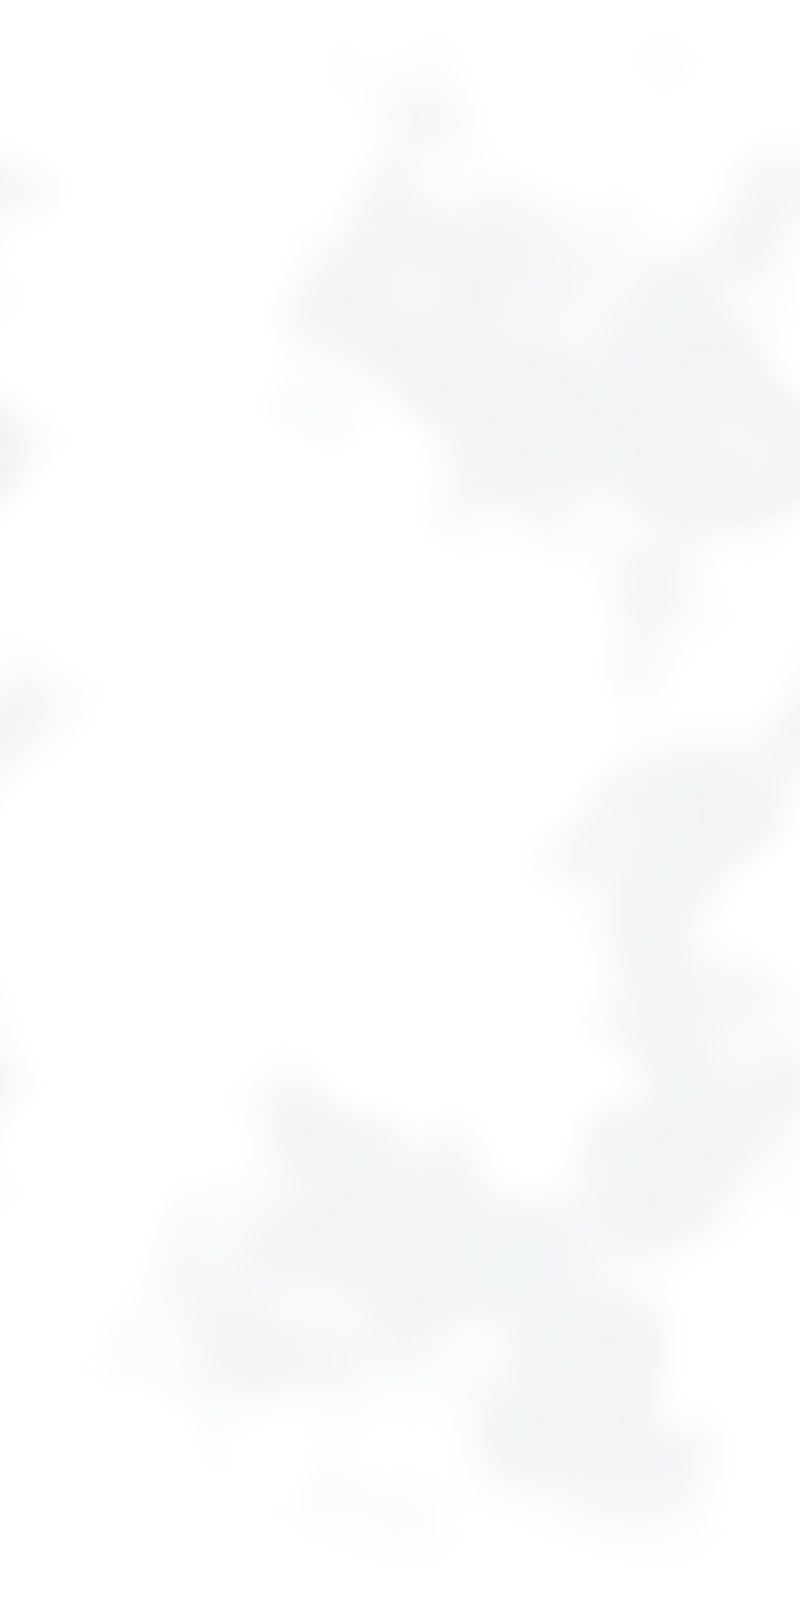
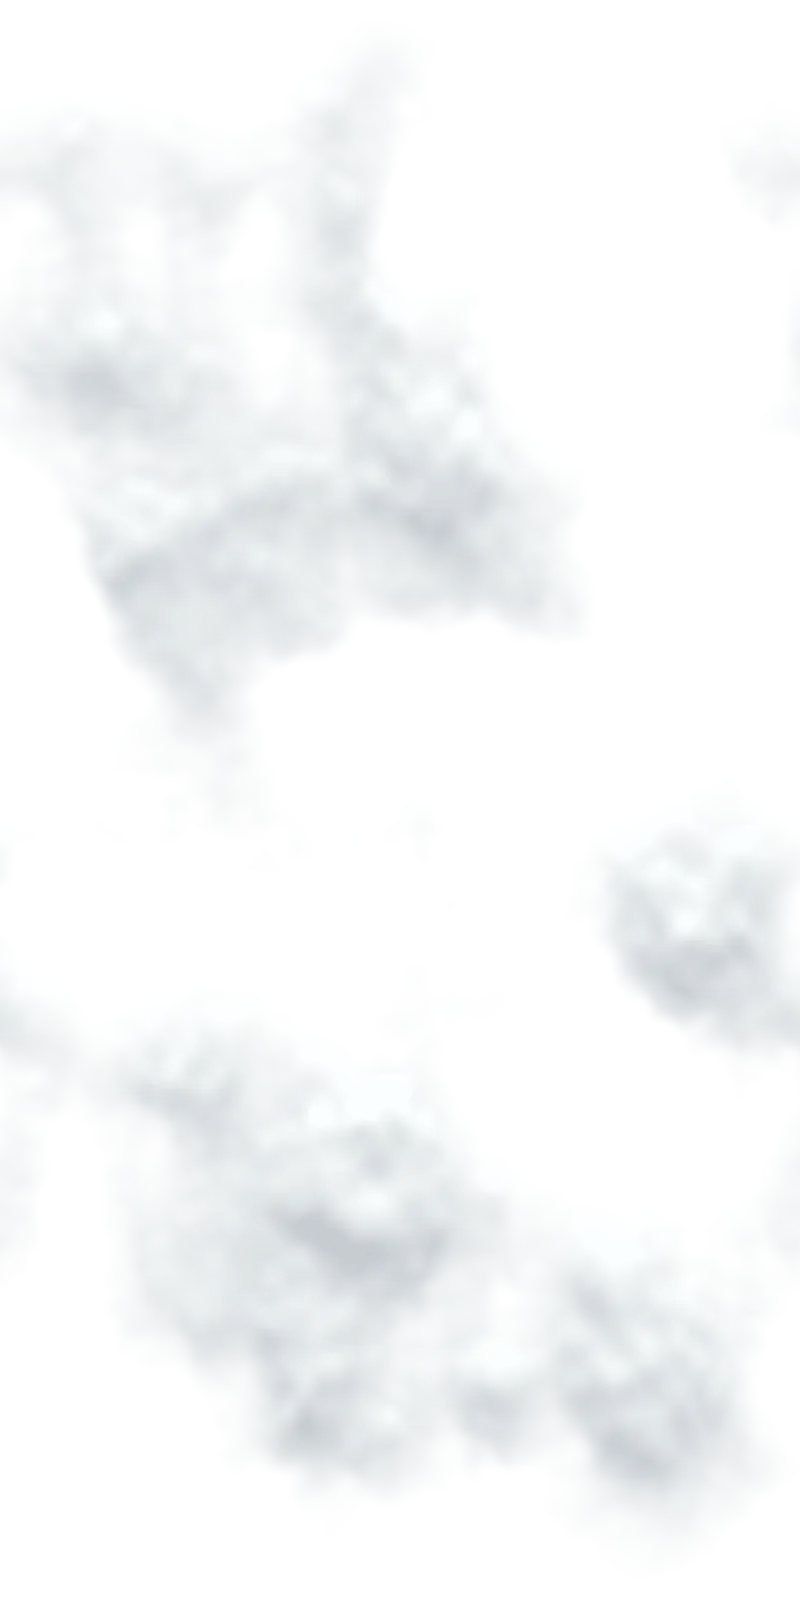
Clouds in depth: natural puffs, visible wisps, Variety goes behind the clouds
The puffs behind the texts are soft noise shapes again (another seed: no
boomerang); the wisps in front are whiter and stronger, so they show over
the grey bank while staying see-through. The texts no longer move on and
fade at the end: they stay in the centre, and the Variety quote goes
behind the cumulus near the bank's bottom as it rises (a mask traced
along its billows, following the bank's drift).

diff --git a/public/main.js b/public/main.js
@@ -9,11 +9,8 @@ const textTrack = document.querySelector(".cloud-text-track");
 const cloudText = document.querySelector(".cloud-text");
 const logoHold = document.querySelector(".intro-logo-hold");
 const quotes = [...cloudText.querySelectorAll(".quote")];
-const TEXT_HOLD = 1.2; // screens of scrolling the logline and quotes stay in the centre
-// Where (in screens of scrolling into the pause) each text gives way to the next, and
-// where the last one fades as it leaves, so both press quotes get the same time.
+// Where (in screens of scrolling into the pause) each text gives way to the next.
 const TEXT_SWAPS = [0.3, 0.85];
-const TEXT_OUT = 1.3;
 const FADE = 0.14;
 const film = document.querySelector(".film");
 const stage = film.querySelector(".film-stage");
@@ -56,34 +53,50 @@ function update() {
   const covered = Math.min(1, window.scrollY / (0.94 * window.innerHeight));
   logo.style.transform = `scale(${1 - 0.1 * covered})`;
 
-  // Text: rides up with the clouds, slows to a stop in the centre of the screen, holds,
-  // then speeds up again and moves on. u is how far the track has scrolled past the
-  // top of the screen; the text stays back by an amount that grows and shrinks
-  // smoothly (no sudden stop or start).
+  // Text: rides up with the clouds, slows to a stop in the centre of the screen and
+  // stays there: the bank keeps rising, and the last quote goes behind the cumulus near
+  // its bottom. u is how far the track has scrolled past the top of the screen; the
+  // text stays back by an amount that shrinks smoothly (no sudden stop).
   // The text is fixed to the screen and only this moves it (no fight with the page's
   // own scrolling, so it doesn't tremble).
+  following = false;
   const vh = window.innerHeight;
   const u = window.scrollY - trackTop;
-  const soft = 0.12 * vh; // how gently it slows down and speeds up
+  const soft = 0.12 * vh; // how gently it slows down
   const smoothStep = (x) => (x > 20 * soft ? x : soft * Math.log1p(Math.exp(x / soft))); // smooth max(0, x)
-  const y = -(smoothStep(u - TEXT_HOLD * vh) - smoothStep(-u));
-  cloudText.style.visibility = Math.abs(y) < vh ? "visible" : "hidden";
+  const y = smoothStep(-u);
   cloudText.style.transform = `translate3d(0, ${y.toFixed(1)}px, 0)`;
 
-  // Each text fades out as the next fades in; the last fades out as it moves away.
+  // Each text fades out as the next fades in; the last stays.
   const at = (screens) => ease(range(u / vh, screens - FADE / 2, screens + FADE / 2));
   quotes.forEach((q, i) => {
     const fadeIn = i === 0 ? 1 : at(TEXT_SWAPS[i - 1]);
-    const fadeOut = i < TEXT_SWAPS.length ? at(TEXT_SWAPS[i]) : ease(range(u / vh, TEXT_OUT, TEXT_OUT + 0.15));
+    const fadeOut = i < TEXT_SWAPS.length ? at(TEXT_SWAPS[i]) : 0;
     q.style.opacity = fadeIn * (1 - fadeOut);
     q.style.transform = `translateY(${12 * (1 - fadeIn) - 12 * fadeOut}px)`;
   });
+
+  // ...behind those clouds: masked with clouds-below-mask.webp (opaque down to the
+  // cumulus near the bank's bottom), kept on the bank's place and its drift, once the
+  // bank's top is above the text; hidden once the cumulus has covered the last quote.
+  const bank = introClouds.getBoundingClientRect();
+  const textBox = cloudText.getBoundingClientRect();
+  const lastBox = quotes[quotes.length - 1].getBoundingClientRect();
+  const behind = bank.top < textBox.top;
+  cloudText.style.visibility = y < vh && bank.top + 0.92 * bank.height > lastBox.top ? "visible" : "hidden";
+  cloudText.style.webkitMaskImage = cloudText.style.maskImage = behind ? "url(clouds-below-mask.webp)" : "";
+  if (behind) {
+    cloudText.style.webkitMaskRepeat = cloudText.style.maskRepeat = "repeat-x";
+    cloudText.style.webkitMaskSize = cloudText.style.maskSize = `auto ${bank.height.toFixed(1)}px`;
+    cloudText.style.webkitMaskPosition = cloudText.style.maskPosition =
+      `${(cloudTile.getBoundingClientRect().left - textBox.left).toFixed(1)}px ${(bank.top - textBox.top).toFixed(1)}px`;
+    if (bank.top + 0.92 * bank.height > textBox.top && bank.top + 0.8 * bank.height < textBox.bottom) following = true;
+  }
 
   // The sky behind the logo moves up, at a third of the scrolling (it's far away).
   introLogo.style.setProperty("--sky-y", `${(-0.35 * Math.min(window.scrollY, logoHold.offsetHeight)).toFixed(1)}px`);
 
   // The nearer clouds.
-  const bank = introClouds.getBoundingClientRect();
   const edgeAtMiddle = 0.5 * vh - 0.12 * bank.height;
   for (const [layer, speed] of cloudLayers) {
     const ly = speed * (bank.top - edgeAtMiddle);
@@ -95,7 +108,6 @@ function update() {
   // where the bank has any cloud, even haze), kept on the bank's place and its drift,
   // and in full above the bank's top. Followed frame by frame while the bank's edge is
   // over them (the bank keeps drifting when the page doesn't scroll).
-  following = false;
   for (const el of [logo, watch]) {
     const r = el.getBoundingClientRect();
     const k = el.offsetWidth ? r.width / el.offsetWidth : 1; // the logo's own shrinking

diff --git a/tools/cloud_depth.py b/tools/cloud_depth.py
@@ -1,16 +1,19 @@
 """Makes the extra cloud layers of the homepage. Needs numpy and Pillow.
 
-    python tools/cloud_depth.py public/clouds.webp <out dir>
+    python tools/cloud_depth.py public/clouds.webp <out dir> 5   (5: the seed in use)
     cwebp -q 70 -alpha_q 80 -resize 900 0 <out dir>/clouds-mid.png -o public/clouds-mid.webp
     cwebp -q 70 -alpha_q 80 <out dir>/clouds-veil.png -o public/clouds-veil.webp
     cwebp -lossless <out dir>/clouds-mask.png -o public/clouds-mask.webp
+    cwebp -lossless <out dir>/clouds-below-mask.png -o public/clouds-below-mask.webp
 
 - clouds-mid: soft puffs with the bank's own texture, lit from above (lighter tops,
   darker undersides), scattered down a tall strip; behind the texts, in front of the bank
-- clouds-veil: large, very thin wisps; in front of the texts
+- clouds-veil: large see-through wisps, lit from above; in front of the texts
 - clouds-mask: where the bank (clouds.webp) has any cloud, even thin haze, this is
   transparent; the logo is masked with it, so it goes behind the clouds instead of
   showing through them
+- clouds-below-mask: opaque down to the cumulus near the bottom of the bank; the last
+  quote is masked with it, so it goes behind those clouds as they rise
 Noise that wraps at the sides (made in frequency space), so the layers can drift
 sideways without a seam.
 """
@@ -19,7 +22,7 @@ import numpy as np
 from PIL import Image
 
 src, out = sys.argv[1], sys.argv[2]
-rng = np.random.default_rng(11)
+rng = np.random.default_rng(int(sys.argv[3]) if len(sys.argv) > 3 else 5)
 
 
 def smooth(a, b, x):
@@ -50,24 +53,26 @@ def texture(h, w):
     return t.mean(2, keepdims=True)
 
 
-# Puffs behind the texts.
+# Puffs behind the texts: thresholded noise, soft, lit from above.
 h, w = 2400, 1200
 y = np.linspace(0, 1, h)[:, None]
 n = noise(h, w, [(300, 0.7), (115, 0.24), (40, 0.06)])
 cover = noise(h, 1, [(300, 1.0)])
-thr = 1 - (0.18 + 0.32 * cover)
+thr = 1 - (0.18 + 0.3 * cover)
 a = smooth(thr - 0.07, thr + 0.12, n) * smooth(0.0, 0.06, y) * (1 - smooth(0.92, 1.0, y))
 lit = np.clip(0.5 + 4.5 * (n - np.roll(n, 40, axis=0)) + 0.8 * (n - thr), 0, 1)[..., None]
 rgb = texture(h, w) * (0.6 + 0.8 * lit) * np.array([0.95, 0.99, 1.02])
 Image.fromarray(np.dstack([rgb, a[..., None] * 225]).clip(0, 255).astype(np.uint8)).save(f"{out}/clouds-mid.png")
 
-# Thin wisps in front of the texts: large, soft, faint.
+# Wisps in front of the texts: large and soft, see-through but clearly there, light on
+# top and greyer underneath.
 h, w = 1600, 800
 y = np.linspace(0, 1, h)[:, None]
-n = noise(h, w, [(160, 0.75), (60, 0.25)])
-a = smooth(0.45, 0.8, n) * smooth(0.0, 0.08, y) * (1 - smooth(0.9, 1.0, y))
-rgb = np.full((h, w, 3), [226, 231, 234], np.float32) * (0.85 + 0.15 * n[..., None])
-Image.fromarray(np.dstack([rgb, a[..., None] * 90]).clip(0, 255).astype(np.uint8)).save(f"{out}/clouds-veil.png")
+n = noise(h, w, [(150, 0.7), (55, 0.22), (18, 0.08)])
+a = smooth(0.5, 0.78, n) * smooth(0.0, 0.08, y) * (1 - smooth(0.9, 1.0, y))
+lit = np.clip(0.5 + 4.0 * (n - np.roll(n, 30, axis=0)), 0, 1)[..., None]
+rgb = np.array([178, 186, 192], np.float32) + np.array([70, 66, 60], np.float32) * lit  # whiter than the bank behind, so they show
+Image.fromarray(np.dstack([rgb, a[..., None] * 190]).clip(0, 255).astype(np.uint8)).save(f"{out}/clouds-veil.png")
 
 # The logo's mask: opaque where the bank is clear sky, transparent where it has cloud.
 alpha = np.asarray(bank.getchannel("A")).astype(np.float32) / 255
@@ -75,3 +80,18 @@ keep = 1 - smooth(0.03, 0.3, alpha)
 m = np.zeros(alpha.shape + (4,), np.uint8)
 m[..., 3] = (keep * 255).astype(np.uint8)
 Image.fromarray(m).save(f"{out}/clouds-mask.png")
+
+# The texts' mask: opaque down to the top of the cumulus near the bottom of the bank
+# (traced by hand from it, at 1072 px + these, wrapping at the sides), transparent
+# below; the last quote is masked with it, so it goes behind those clouds as they rise.
+H, W = alpha.shape
+pts = [(0, 520), (30, 490), (60, 480), (110, 465), (170, 470), (220, 455), (270, 450),
+       (300, 440), (340, 436), (380, 445), (420, 460), (470, 470), (520, 490), (560, 505),
+       (600, 520), (640, 535), (680, 530), (717, 520)]
+edge = 1072 + np.interp(np.arange(W), [p[0] for p in pts], [p[1] for p in pts])
+edge = edge + 10 * (noise(1, W, [(W * 0.03, 0.7), (W * 0.012, 0.3)])[0] - 0.5)
+ys = np.arange(H)[:, None]
+keep = 1 - smooth(-6, 6, ys - edge[None, :])
+m = np.zeros((H, W, 4), np.uint8)
+m[..., 3] = (keep * 255).astype(np.uint8)
+Image.fromarray(m).save(f"{out}/clouds-below-mask.png")

diff --git a/README.md b/README.md
@@ -4,7 +4,7 @@ Static website, served by Render from `public/` (no build step).
 
 - `public/favicon.png`, `apple-touch-icon.png` — the icon: mountain ridges in the evening haze
 - `public/laurels.webp` — festival laurels at the top of the homepage, nine in one strip, each sized to the same visual weight, built from the trimmed originals in `tools/laurels/` (one row beside the menu button; on phones the same strip in one row above the logo, drifting right to left for ever and draggable (main.js))
-- `public/index.html`, `style.css`, `main.js` — homepage: logo over the sky photo (`sky.webp`), the storm clouds (`clouds.webp`, a seamless sideways tile drifting steadily with the wind; the sky photo behind the logo moves up at a third of the scrolling; the logo and its button are masked with `clouds-mask.webp` so they go behind the bank (hidden even where it is only haze) instead of showing through; nearer layers move and drift faster the closer they are: puffs between the bank and the texts (`clouds-mid.webp`) and very thin wisps in front of them (`clouds-veil.webp`), all made by `tools/cloud_depth.py`; arriving over the top third of the video and scrolling on away as it zooms in, made from the storm photo by `tools/clouds.py`: a top edge shaped by the cloud forms, softened toward the film's overcast sky lower down, the thick middle extended, the bottom faded) scroll up over it carrying the logline and two press quotes (Screen Daily, then Variety; logos `press-*.png`), each cross-fading into the next and fade onto the film clip (`bg2-light.mp4`, 1280 wide and under 1 MB, is what the loading screen waits for; the full-quality `bg2.mp4`, 12 s, 1920×1072, H.264, no audio, then loads behind it and fades in over it, in step; `bg2-poster.webp`, its first frame, shows until it plays), which plays and loops on its own while on screen (on phones it starts 2 s in the first time, then loops whole; `bg2-poster-mobile.webp` is that frame); scrolling on zooms it straight in and blurs it (not fully); as it blurs, the poster (`poster.webp`), the synopsis and the About the film and trailer buttons come into focus in place, over the blurred video, still playing (on phones stacked: poster full width, heading, synopsis, buttons, footer, moved up by main.js over the pinned video as you scroll, from the moment it starts to show), and the page ends there. A loading screen (the light sky colour #939ca2, a small dark blue bar and percentage) holds the page until fonts, images and the clip are loaded; then the logo comes into focus
+- `public/index.html`, `style.css`, `main.js` — homepage: logo over the sky photo (`sky.webp`), the storm clouds (`clouds.webp`, a seamless sideways tile drifting steadily with the wind; the sky photo behind the logo moves up at a third of the scrolling; the logo and its button are masked with `clouds-mask.webp` so they go behind the bank (hidden even where it is only haze) instead of showing through; nearer layers move and drift faster the closer they are: puffs between the bank and the texts (`clouds-mid.webp`) and see-through wisps in front of them (`clouds-veil.webp`), all made by `tools/cloud_depth.py`; the logline and quotes ride up into the centre and stay, the last (Variety) going behind the cumulus near the bank's bottom as it rises (masked with `clouds-below-mask.webp`); arriving over the top third of the video and scrolling on away as it zooms in, made from the storm photo by `tools/clouds.py`: a top edge shaped by the cloud forms, softened toward the film's overcast sky lower down, the thick middle extended, the bottom faded) scroll up over it carrying the logline and two press quotes (Screen Daily, then Variety; logos `press-*.png`), each cross-fading into the next and fade onto the film clip (`bg2-light.mp4`, 1280 wide and under 1 MB, is what the loading screen waits for; the full-quality `bg2.mp4`, 12 s, 1920×1072, H.264, no audio, then loads behind it and fades in over it, in step; `bg2-poster.webp`, its first frame, shows until it plays), which plays and loops on its own while on screen (on phones it starts 2 s in the first time, then loops whole; `bg2-poster-mobile.webp` is that frame); scrolling on zooms it straight in and blurs it (not fully); as it blurs, the poster (`poster.webp`), the synopsis and the About the film and trailer buttons come into focus in place, over the blurred video, still playing (on phones stacked: poster full width, heading, synopsis, buttons, footer, moved up by main.js over the pinned video as you scroll, from the moment it starts to show), and the page ends there. A loading screen (the light sky colour #939ca2, a small dark blue bar and percentage) holds the page until fonts, images and the clip are loaded; then the logo comes into focus
 - `public/gate.js` — password screen on every page (remembered in the browser once entered). Keeps casual visitors out only: the files themselves stay reachable. To change the password, put its hash (see `hash()` in the file) in `HASH`
 - `public/trailer.js` — "Watch the trailer" buttons (under the logo and beside About the film) open the YouTube trailer in a player over the darkened page
 - `public/site.css`, `menu.js`, `menu.html` — shared styles and the menu (a pill at the top right: three lines, then MENU; it opens the menu as a page of its own, `menu.html`, in its own darker olive, so iPhone Safari's bands match it; the X goes back to the page you came from, where you were; pages cross-fade where browsers can): Home, About the film, Screenings & Awards, Press, Soundtrack, Community (listed at the top of `menu.js`; the page you are on in italics), and the footer on every page (credits, designer, Instagram, Facebook, IMDb, TMDB; on the homepage at the bottom of the synopsis screen)
